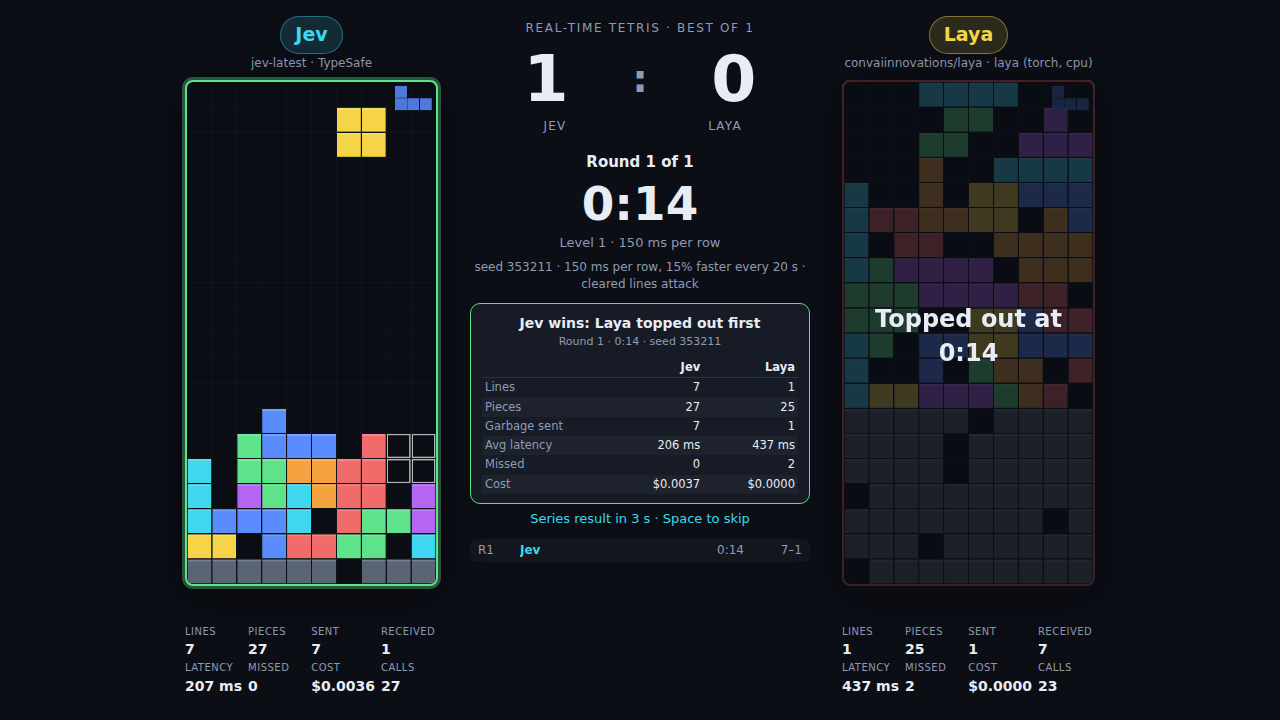
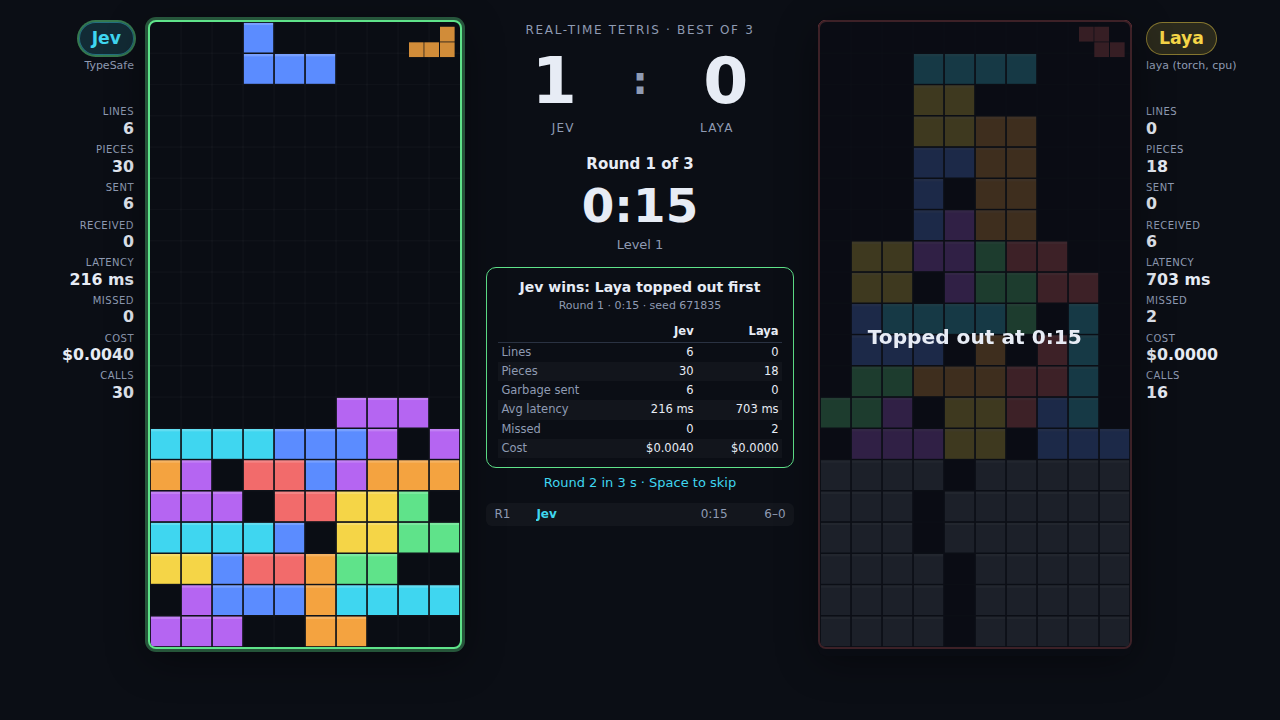
Presentation page: stats beside the boards, boards fill the window
Each player's badge and stats move into a narrow panel next to the board,
so the board height is no longer paid for by rows above and below it. The
board size is now bound by whichever runs out first, window height or the
width left after the panels and the centre column, and the stage is
centred vertically. Labels are short and never wrap.

Claude-Session: https://claude.ai/code/session_016YCduUQvKvzKhRYFEpSHCa

Changed region(s): [[0.0312, 0.0, 0.9688, 0.9778], [0.4062, 0.0306, 0.5938, 0.1833], [0.625, 0.7639, 0.6562, 0.7944]]

diff --git a/public/present.css b/public/present.css
@@ -1,29 +1,44 @@
-/* Presentation page: boards as tall as the window allows, a series score in
-   the middle, and nothing else once the series is running. */
-:root { --bh: min(calc(100vh - 214px), 900px); }
+/* Presentation page: boards as tall as the window allows, each with a narrow
+   panel of stats beside it, a series score in the middle, and nothing else
+   once the series is running. The board height is bound by the window height
+   or, on wide-and-short windows, by the width left after the panels. */
+:root {
+  --panel: 108px;
+  --center: clamp(300px, 24vw, 460px);
+  --bh: min(calc(100vh - 40px), calc(100vw - var(--center) - 2 * var(--panel) - 128px), 1000px);
+}
 body.present-page { background: #0b0e15; overflow: hidden; min-height: 100vh; }
 
 .stage {
   display: grid;
-  grid-template-columns: auto clamp(340px, 24vw, 460px) auto;
+  grid-template-columns: auto var(--center) auto;
   justify-content: center;
   align-items: start;
-  gap: 32px;
-  padding: 16px 28px 12px;
+  gap: 24px;
+  padding: 16px;
+  min-height: 100vh;
+  align-content: center;
 }
-.stage .player { gap: 8px; }
-.stage .player-head { gap: 1px; }
-.stage .badge { font-size: 19px; }
+.stage .player { display: grid; grid-template-columns: var(--panel) auto; gap: 14px; align-items: start; }
+.stage #right { grid-template-columns: auto var(--panel); }
+.stage .panel { display: flex; flex-direction: column; gap: 8px; min-width: 0; padding-top: 2px; }
+.stage #left .panel { align-items: flex-end; text-align: right; }
+.stage #right .panel { align-items: flex-start; text-align: left; }
+.stage .player-head { display: flex; flex-direction: column; gap: 4px; align-items: inherit; }
+.stage .badge { font-size: clamp(17px, 2.4vh, 24px); padding: 3px 12px; }
+.stage .model { font-size: 11px; line-height: 1.3; max-width: var(--panel); white-space: nowrap; overflow: hidden; text-overflow: ellipsis; }
 .stage canvas.board { width: calc(var(--bh) / 2); height: var(--bh); }
-.stage .player .overlay { font-size: 24px; }
-.stage .incoming { min-height: 16px; font-size: 12px; }
-.stage .pstats { grid-template-columns: repeat(4, 1fr); gap: 2px 6px; width: calc(var(--bh) / 2); }
-.stage .pstats .stat span { white-space: nowrap; }
-.stage .pstats .stat { gap: 0; }
+.stage .player .overlay { font-size: clamp(18px, 2.8vh, 30px); line-height: 1.25; padding: 12px; }
+.stage .incoming { min-height: 16px; font-size: 12px; text-align: inherit; }
+.stage .pstats { display: grid; grid-template-columns: 1fr; gap: 5px; width: 100%; }
+.stage .pstats .stat { gap: 0; align-items: inherit; }
+.stage #left .pstats .stat { align-items: flex-end; }
 .stage .pstats .stat .label { font-size: 10px; }
-.stage .pstats .stat span:not(.label) { font-size: 14px; }
+.stage .pstats .stat span { white-space: nowrap; }
+.stage .pstats .stat span:not(.label) { font-size: clamp(15px, 2.2vh, 22px); line-height: 1.15; }
+.stage .player.winner .badge { box-shadow: 0 0 0 2px rgba(95, 227, 138, 0.5); }
 
-.center { display: flex; flex-direction: column; gap: 6px; text-align: center; padding-top: 4px; min-width: 0; }
+.center { display: flex; flex-direction: column; gap: 6px; text-align: center; padding-top: 2px; min-width: 0; }
 .series-title { font-size: clamp(12px, 1.4vh, 15px); letter-spacing: 0.14em; text-transform: uppercase; color: var(--muted); }
 .score {
   display: grid; grid-template-columns: 1fr auto 1fr; align-items: center;
@@ -34,8 +49,7 @@ body.present-page { background: #0b0e15; overflow: hidden; min-height: 100vh; }
 .round-label { font-size: clamp(15px, 2vh, 22px); font-weight: 600; margin-top: 10px; }
 .stage .clock { font-size: clamp(44px, 6.5vh, 76px); font-weight: 600; line-height: 1; margin-top: 2px; }
 .stage .level { font-size: clamp(13px, 1.6vh, 18px); margin-top: 0; }
-.match-info { display: block; font-size: clamp(12px, 1.4vh, 15px); line-height: 1.4; color: var(--muted); }
-.stage .result { font-size: clamp(14px, 1.8vh, 20px); padding: 9px 11px; margin-top: 4px; }
+.stage .result { font-size: clamp(14px, 1.8vh, 20px); padding: 9px 11px; margin-top: 6px; }
 .stage .result small { font-size: clamp(11px, 1.3vh, 14px); }
 .stage .result.series { border-color: var(--accent-2); }
 .stage .compare { font-size: clamp(11.5px, 1.45vh, 16px); }
@@ -80,6 +94,3 @@ body.present-page { background: #0b0e15; overflow: hidden; min-height: 100vh; }
   font-family: var(--mono); font-size: 11px; color: var(--text);
 }
 .setup #setupError { margin-top: 10px; }
-
-/* The model label must never wrap: a long runtime string would push the stats off screen. */
-.stage .model { max-width: calc(var(--bh) / 2); white-space: nowrap; overflow: hidden; text-overflow: ellipsis; }

diff --git a/public/present.html b/public/present.html
@@ -13,16 +13,18 @@
 <body class="present-page">
   <main class="stage">
     <section class="player" id="left">
-      <div class="player-head">
-        <span class="badge jev">Jev</span>
-        <span class="model muted">jev-latest · TypeSafe</span>
+      <div class="panel">
+        <div class="player-head">
+          <span class="badge jev">Jev</span>
+          <span class="model muted">TypeSafe</span>
+        </div>
+        <div class="incoming" id="incomingL"></div>
+        <div class="pstats" id="statsL"></div>
       </div>
       <div class="board-wrap">
         <canvas class="board" id="boardL" width="400" height="800" aria-label="Jev's board"></canvas>
         <div class="overlay hidden" id="overlayL"></div>
       </div>
-      <div class="incoming" id="incomingL"></div>
-      <div class="pstats" id="statsL"></div>
     </section>
 
     <section class="center">
@@ -40,16 +42,18 @@
     </section>
 
     <section class="player" id="right">
-      <div class="player-head">
-        <span class="badge haiku" id="badgeR">Claude Haiku 4.5</span>
-        <span class="model muted" id="modelR">claude-haiku-4-5 · Anthropic</span>
-      </div>
       <div class="board-wrap">
         <canvas class="board" id="boardR" width="400" height="800" aria-label="Opponent's board"></canvas>
         <div class="overlay hidden" id="overlayR"></div>
       </div>
-      <div class="incoming" id="incomingR"></div>
-      <div class="pstats" id="statsR"></div>
+      <div class="panel">
+        <div class="player-head">
+          <span class="badge haiku" id="badgeR">Claude Haiku 4.5</span>
+          <span class="model muted" id="modelR">Anthropic</span>
+        </div>
+        <div class="incoming" id="incomingR"></div>
+        <div class="pstats" id="statsR"></div>
+      </div>
     </section>
   </main>
 

diff --git a/public/present.js b/public/present.js
@@ -92,6 +92,9 @@ function presentRows(side) {
   ];
 }
 
+// Short provider names for the narrow side panels.
+const PROVIDER = { haiku: "Anthropic", gemini: "Google", laya: "local, open weights" };
+
 const ROUND_ROWS = [
   ["Lines", (s) => s.lines],
   ["Pieces", (s) => s.pieces],
@@ -133,7 +136,7 @@ function renderOpponent() {
   const opp = opponentChoice();
   ui.badgeR.textContent = opp.name;
   ui.badgeR.className = `badge ${opp.badge}`;
-  ui.modelR.textContent = opp.label;
+  ui.modelR.textContent = PROVIDER[ui.opponent.value] || opp.label;
   ui.nameR.textContent = opp.short;
   const v = ui.opponent.value;
   ui.haikuKeyField.classList.toggle("hidden", v !== "haiku");
@@ -209,7 +212,7 @@ async function startSeries() {
   if (ui.opponent.value === "laya") {
     try {
       const info = await checkLayaServer(oppKey);
-      ui.modelR.textContent = `${info.model || "laya"} · ${info.runtime || "local"}`;
+      ui.modelR.textContent = info.runtime || "laya · local";
     } catch (err) {
       showError(`Laya: ${err.message}`);
       ui.start.disabled = false;
